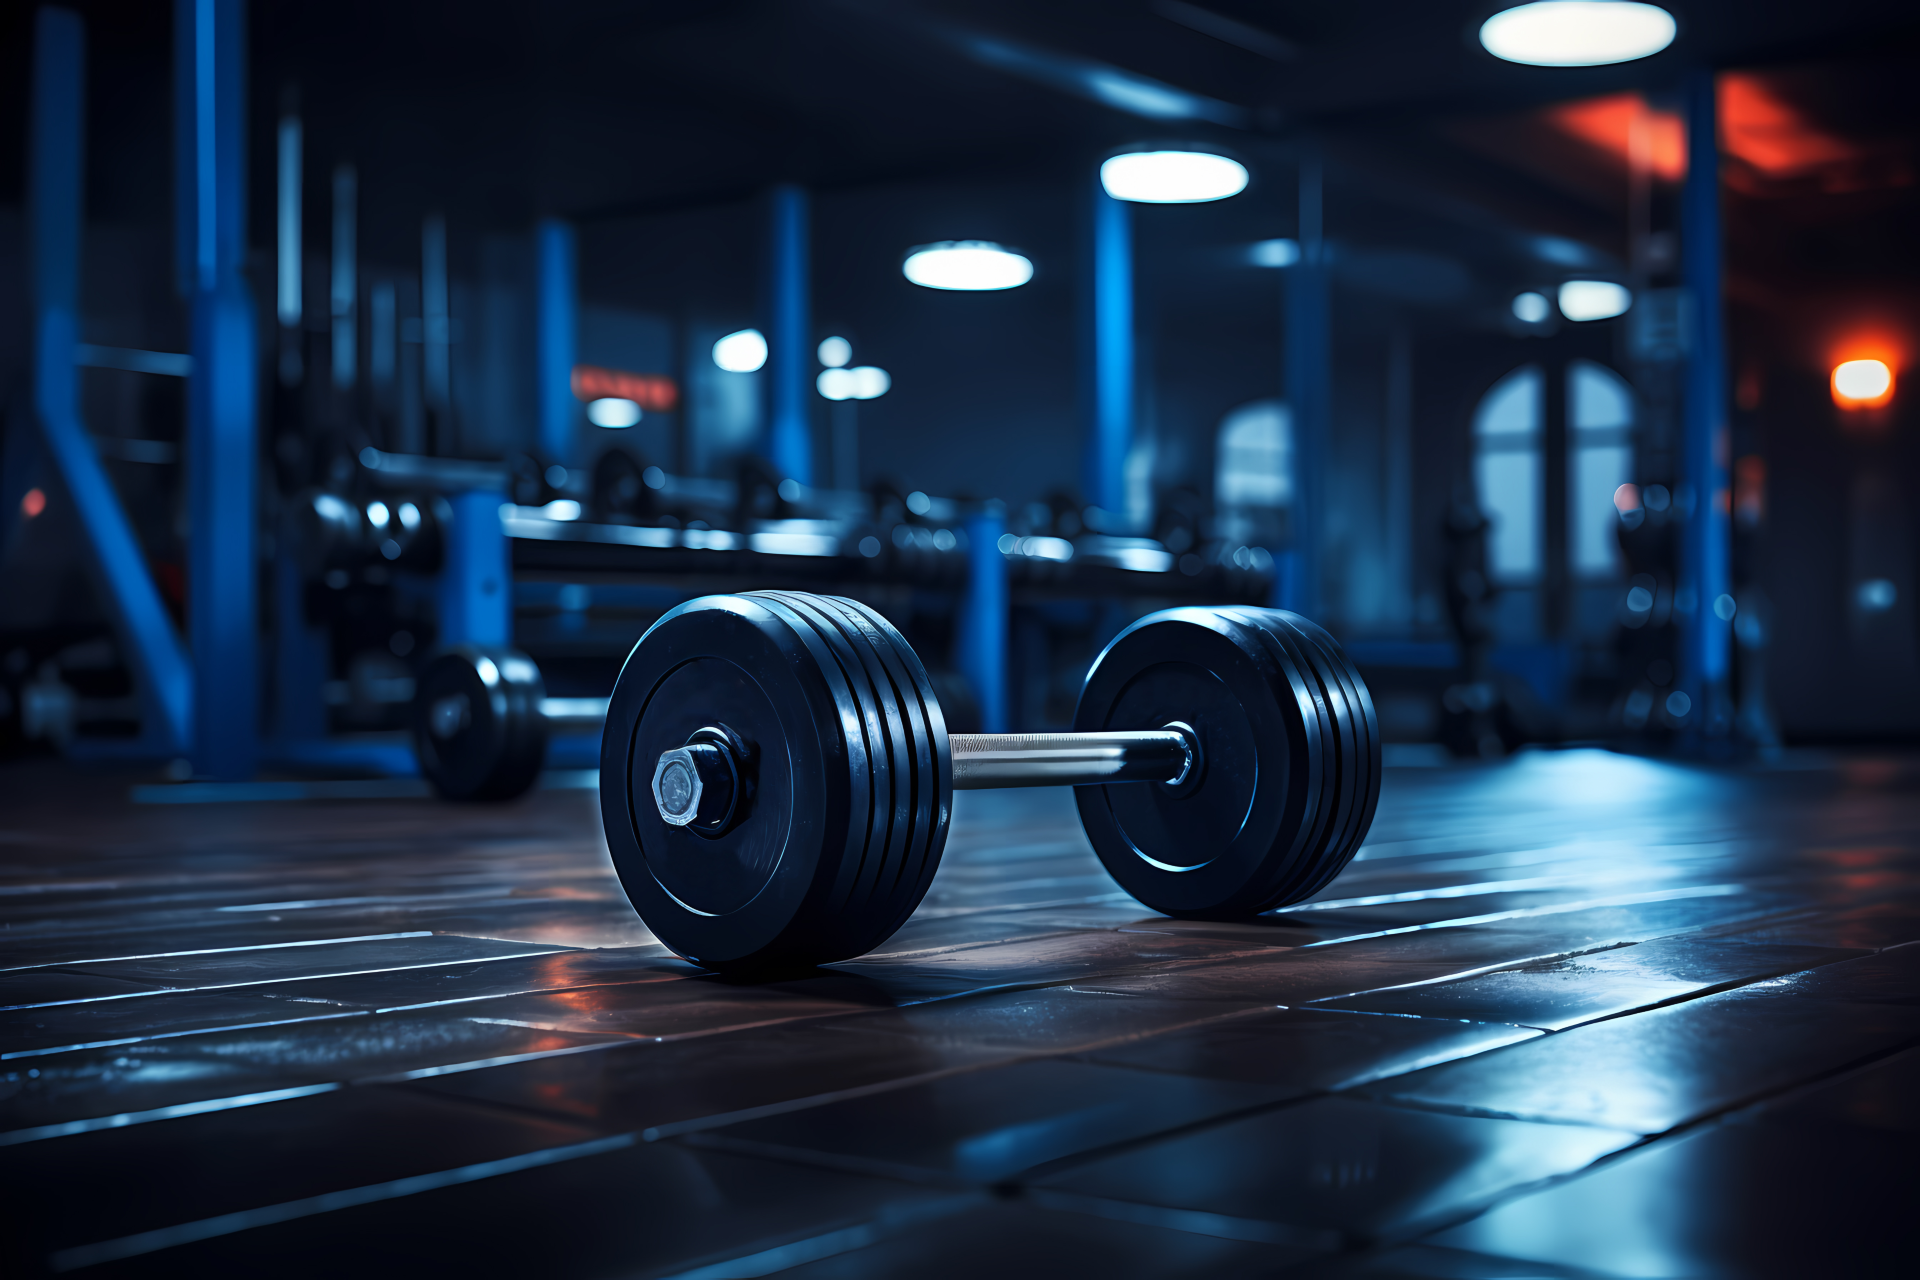
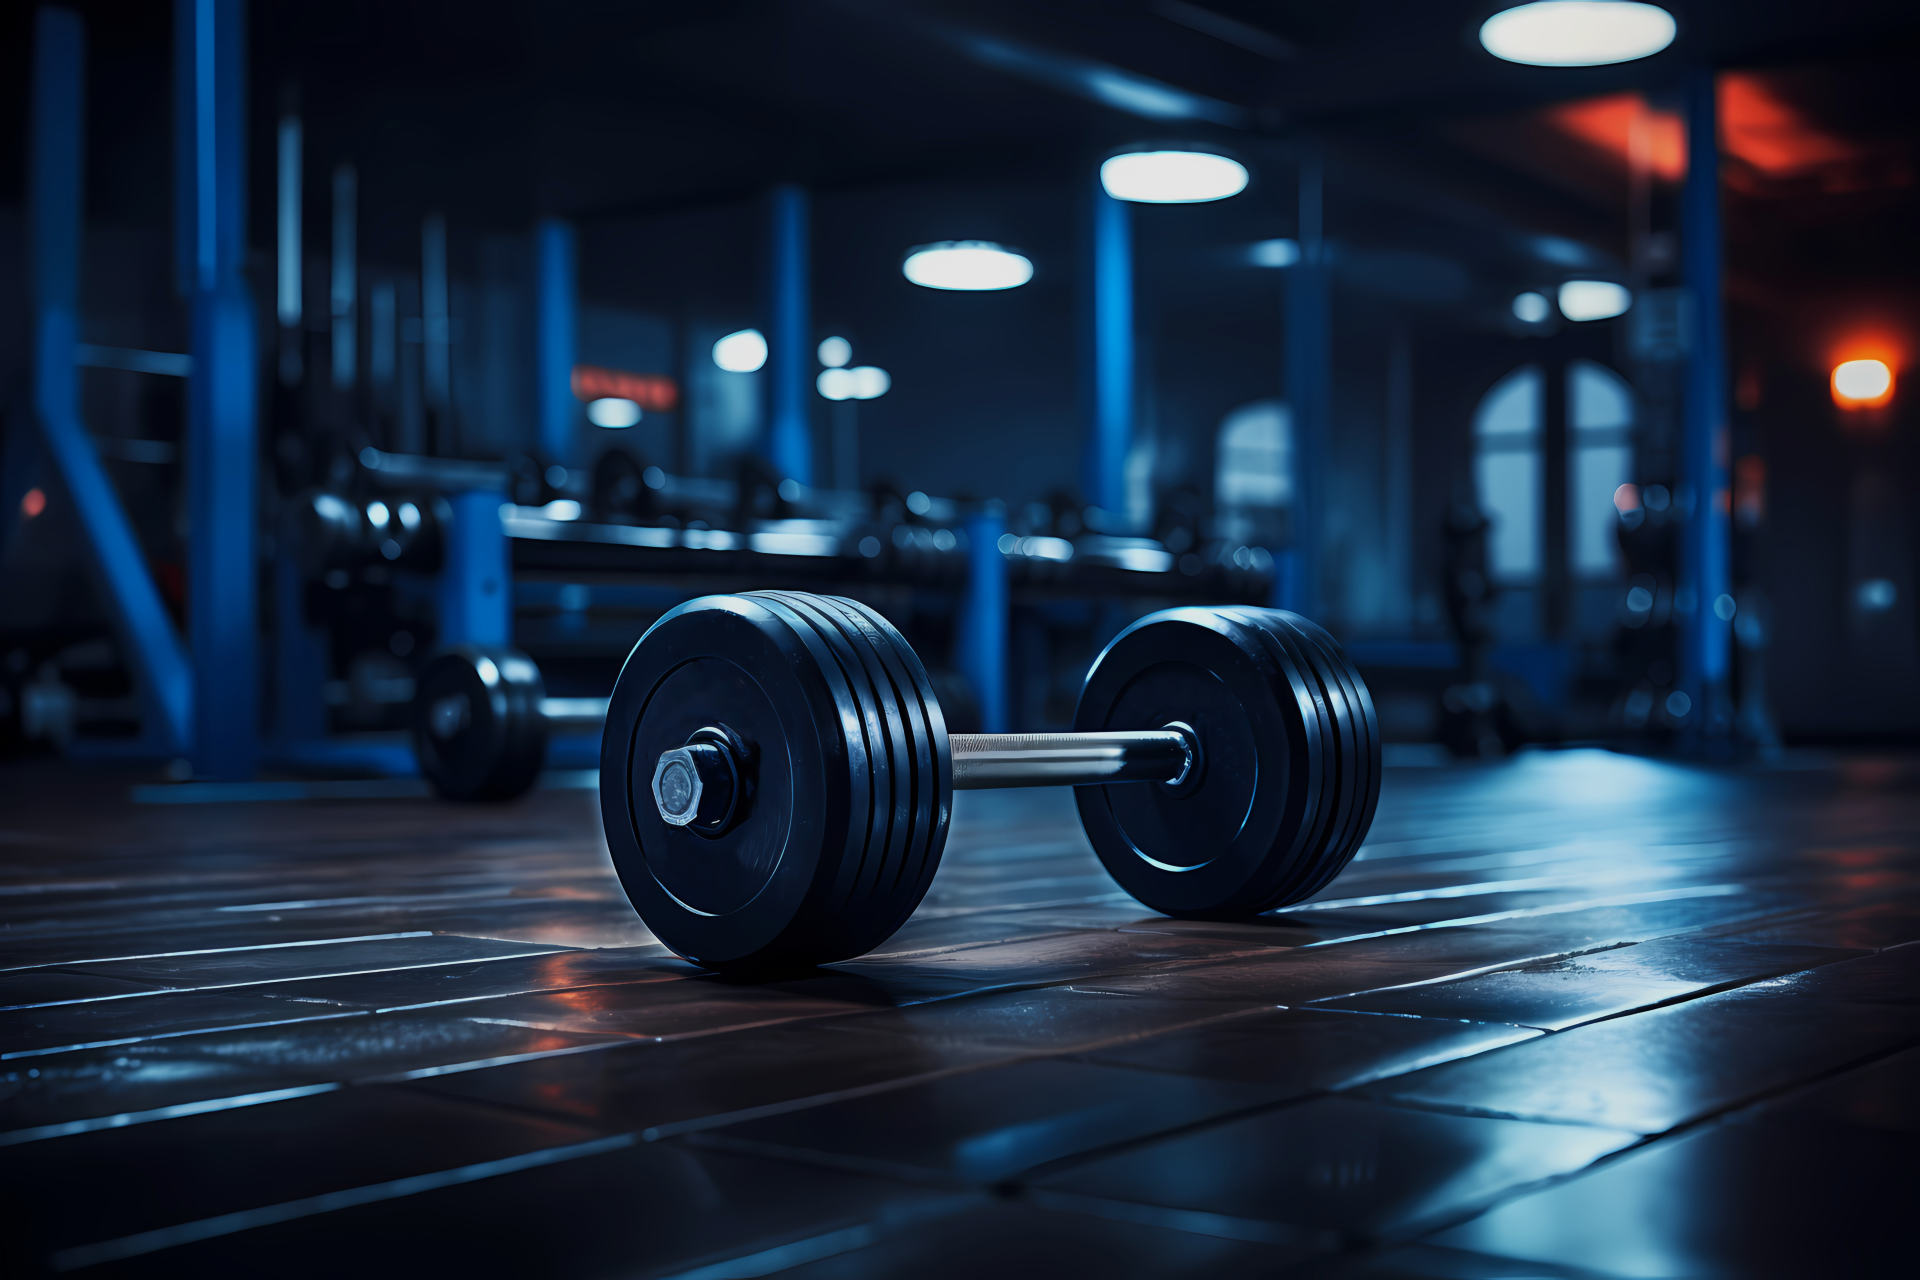
Fixed Background

diff --git a/index.html b/index.html
@@ -13,20 +13,23 @@
     <title>Document</title>
 </head>
 <body>
-    <nav>
-        <div class="navbar">
-        <ul class="nav-links">
-            <li><a class="active" href="index.html">HOME</a></li>
-            <li><a class="active" href="classes.html">CLASSES</a></li>
-            <li><a class="active" href="gym_tour.html">GYM TOUR</a></li>
-            <li><a class="active" href="about_us.html">ABOUT US</a></li>
-        </ul>
-    </nav>
-</div>
-<div class="main_text">
-    <h1>
-        WELCOME TO TOTALLY FIT
-    </h1>
-</div>
+    <div class="background">
+        <nav>
+            <div class="navbar">
+            <ul class="nav-links">
+                <li><a class="active" href="index.html">HOME</a></li>
+                <li><a class="active" href="classes.html">CLASSES</a></li>
+                <li><a class="active" href="gym_tour.html">GYM TOUR</a></li>
+                <li><a class="active" href="about_us.html">ABOUT US</a></li>
+            </ul>
+            </div>
+        </nav>
+    <div class="main_text">
+        <h1>
+            WELCOME TO TOTALLY FIT
+        </h1>
+    </div>
+    </div>
+    
 </body>
 </html>

diff --git a/index.css b/index.css
@@ -38,8 +38,13 @@ nav {
     background-image: url(/Users/nimoyburrowes/Documents/web_tech_project/befunky_2024-2-6_21-42-31.png);
   } */
   body{
-    background-image: url(/Users/nimoyburrowes/Documents/web_tech_project/befunky_2024-2-6_21-42-31.png);
-  }
+margin: 0;    }
+
+    .background{
+        background-image: url(/Users/nimoyburrowes/Documents/web_tech_project/befunky_2024-2-6_21-42-31.png);
+ width: 100vw;
+ height: 100vh;
+ }
 
 
   .main_text{
